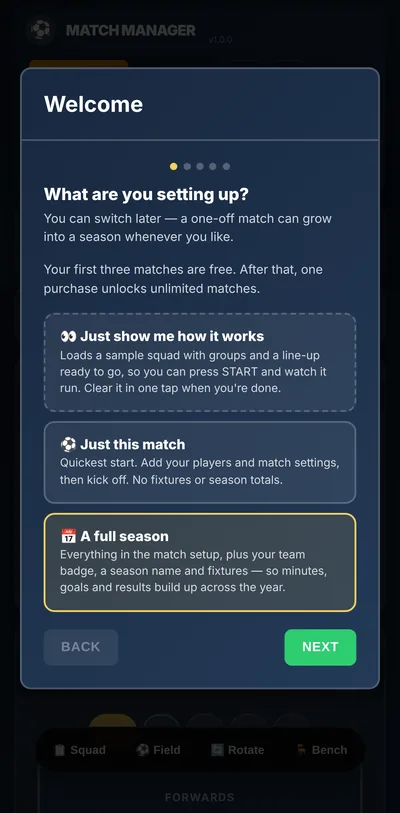
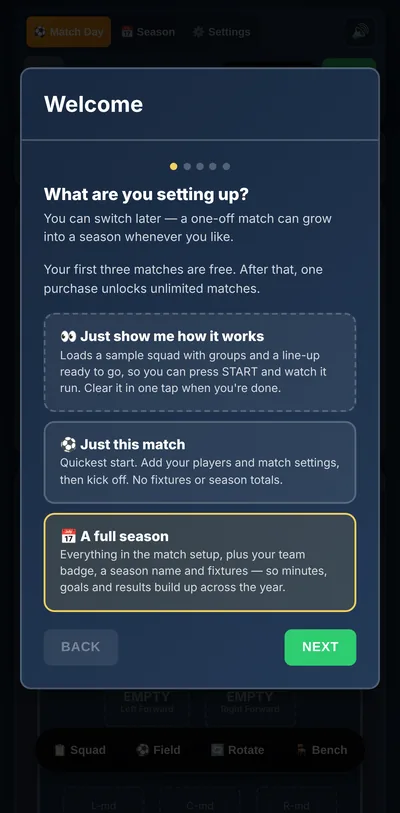
Show the compact header, and point Support at the Settings tab
The six app pictures are redrawn from build 20261004.6 (TestFlight build
10). The iPhone ones show build 9's compact header, and the iPad one the
Settings tab without the fixture banner. They're drawn the same way as
before: store-scenes.mjs, the top safe area cropped, Lanczos to the two
widths, WebP at quality 82.

On the Support page, Restore from Backup is on the Settings tab under
Backups, and Restore purchase is in Help on the Settings tab. The answers
still sent coaches to the Season tab and to a question mark at the top,
which build 7 replaced.

Claude-Session: https://claude.ai/code/session_01V1T3r4yWw2HpKUgMamToem

Changed region(s): [[0.06, 0.0, 0.48, 0.0923], [0.81, 0.0615, 0.93, 0.0923], [0.24, 0.861, 0.33, 0.8918]]

diff --git a/support/index.html b/support/index.html
@@ -98,7 +98,7 @@
       </details>
       <details>
         <summary>How do I back up my team or move it to a new device?</summary>
-        <p>Save a backup in the app. On iPhone and iPad it also saves one after every match, in the Auto backups folder, keeping the newest ten. Backups appear in the Files app under On My iPhone (or On My iPad), in the Match Manager folder. Copy the backup somewhere safe, such as iCloud Drive, or send it to your new device. To restore it, open the Season tab, tap Backups, then Restore from Backup. You'll see a preview before anything is replaced.</p>
+        <p>Save a backup in the app. On iPhone and iPad it also saves one after every match, in the Auto backups folder, keeping the newest ten. Backups appear in the Files app under On My iPhone (or On My iPad), in the Match Manager folder. Copy the backup somewhere safe, such as iCloud Drive, or send it to your new device. To restore it, open the Settings tab and tap Restore from Backup, under Backups. You'll see a preview before anything is replaced.</p>
       </details>
       <details>
         <summary>How much does Match Manager cost?</summary>
@@ -106,7 +106,7 @@
       </details>
       <details>
         <summary>How do I get my purchase back on a new iPhone or iPad?</summary>
-        <p>Sign in with the same Apple Account, open Help in the app (the question mark at the top), and tap Restore purchase at the bottom. With Family Sharing, people in your family group can unlock it too without buying it again.</p>
+        <p>Sign in with the same Apple Account, open the Settings tab, tap Help &amp; user guide, and tap Restore purchase at the bottom. With Family Sharing, people in your family group can unlock it too without buying it again.</p>
       </details>
       <details>
         <summary>Will deleting the app delete my data?</summary>
